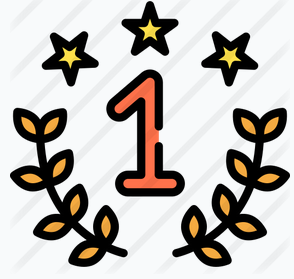
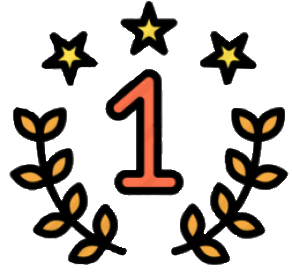
made it so that the number 1 is invisible and that there is a popup if you hit rank 1

diff --git a/src/gui/HomepageController.java b/src/gui/HomepageController.java
@@ -30,6 +30,7 @@ import javafx.scene.web.WebView;
 import javafx.stage.Stage;
 import javafx.stage.Window;
 import javafx.util.Callback;
+import org.springframework.security.core.parameters.P;
 
 import java.net.URL;
 import java.text.DecimalFormat;
@@ -76,7 +77,7 @@ public class HomepageController implements Initializable {
     @FXML
     private WebView browser;
     @FXML
-    StackPane levelPopUp;
+    StackPane levelPopUp , rankPopUp;
 
 
     private long categoryId;
@@ -85,6 +86,7 @@ public class HomepageController implements Initializable {
     private double levelPercentage ;
     private double levelNumber ;
     double temp;
+    static String no1 = null;
 
     private User user = Client.getUserDetails(LogInController.sessionCookie);
     private List<ActivityProjection> activities = Client.getUserActivities(LogInController.sessionCookie);
@@ -100,10 +102,11 @@ public class HomepageController implements Initializable {
      */
     @Override
     public void initialize(URL arg0, ResourceBundle arg1) {
-        //Sets the User's username, First Name, and Last Name
+        //Sets the User's username, First Name, Last Name and the number 1 person
         field.setText(LogInController.Name);
         firstName.setText(user.getFirst_name());
         lastName.setText(user.getLast_name());
+        no1 = top20leaderboard.get(0).getUsername();
 
         //Initialize the ComboBox elements
         comboBox.getItems().removeAll(comboBox.getItems());
@@ -127,9 +130,11 @@ public class HomepageController implements Initializable {
         experience();
         progress.setProgress(levelPercentage / 100.0);
 
-        //Sets the List of Activities, List of Followers, List of Followings, the Recommendation Tab
+        //Sets the List of Activities, List of Followers, Sets number 1 rank , Achievements , List of Followings, the Recommendation Tab
         showUserActivities();
         Recommendation();
+        ranking();
+        achievements();
         setFriends(followers, followersPane);
         setFriends(following, followingPane);
 
@@ -142,20 +147,84 @@ public class HomepageController implements Initializable {
         WebEngine webEngine = browser.getEngine();
         webEngine.load(url);
         browser.getEngine().setUserStyleSheetLocation(getClass().getResource("/CSS/webView.css").toExternalForm());
-        ranking();
-        achievements();
-    }
-    public void ranking(){
-        if (top20leaderboard.get(0).getUsername().equals(user.getUsername())){
-            Image image = new Image("images/number1.png");
-            place.setImage(image);
-        }
+
 
     }
+
+    /**
+     * Checks is the user is the current rank number 1
+     */
+    public void ranking(){
+
+        if(no1.equals(user.getUsername()) ){
+            Image image = new Image("images/number1.png");
+            place.setImage(image);
+            place.setVisible(true);
+
+        }
+       else {
+           place.setVisible(false);
+           rankCongratz();
+
+        }
+    }
+
+    /**
+     * Sets the string who is on top so it refreshes
+     */
+    public void  setNo1(){
+        refresh();
+        no1 = top20leaderboard.get(0).getUsername();
+    }
+
+    /**
+     * Checks if you are the new rank and gives a popup
+     */
+    public void rankCongratz(){
+        if (top20leaderboard.get(0).getUsername().equals(user.getUsername())) {
+            place.setVisible(true);
+            Image image = new Image("images/number1.png");
+            place.setImage(image);
+            place.setVisible(true);
+
+            ImageView imageView = new ImageView();
+            imageView.setImage(image);
+            imageView.setFitHeight(100);
+            imageView.setFitWidth(100);
+            JFXDialogLayout dialogLayout = new JFXDialogLayout();
+            dialogLayout.setHeading(new Text("Hey, " + user.getUsername() + ", Congratulations! \nyou have just hit Rank 1!!! \n" +"You have earned this:"));
+            dialogLayout.setBody(imageView);
+
+
+            JFXDialog dialog = new JFXDialog(rankPopUp, dialogLayout, JFXDialog.DialogTransition.NONE);
+
+            dialog.setMaxWidth(rankPopUp.getMaxWidth());
+            dialog.setMaxHeight(rankPopUp.getMaxHeight());
+
+            JFXButton buttonX = new JFXButton("Close");
+
+            buttonX.setOnAction(event -> dialog.close());
+
+            dialogLayout.setActions(buttonX);
+
+            dialog.show();
+        }
+        else {
+            place.setVisible(false);
+        }
+    }
+
+    /**
+     * Minimizes the window
+     */
 
     public void handleMinimizeButton() {
         LogInController.stage.setIconified(true);
     }
+
+    /**
+     * Sets achievements for levels
+     */
 
     public  void achievements(){
         if(levelNumber == 1) {
@@ -586,6 +655,7 @@ public class HomepageController implements Initializable {
             levelPercentage = (user.getExperience_points() - Math.pow(2, ((int) (levelNumber - 1)))) / (Math.pow(2, ((int) levelNumber)) - Math.pow(2, (int) (levelNumber - 1))) * 100;
         }
         achievements();
+        ranking();
         level.setText("lvl"+ (int) levelNumber);
     }
 
@@ -801,6 +871,8 @@ public class HomepageController implements Initializable {
         refresh();
         setLeaderBoard();
         experience();
+        setNo1();
+        ranking();
 
         showUserActivities();
         progress.setProgress(levelPercentage/100.0);
